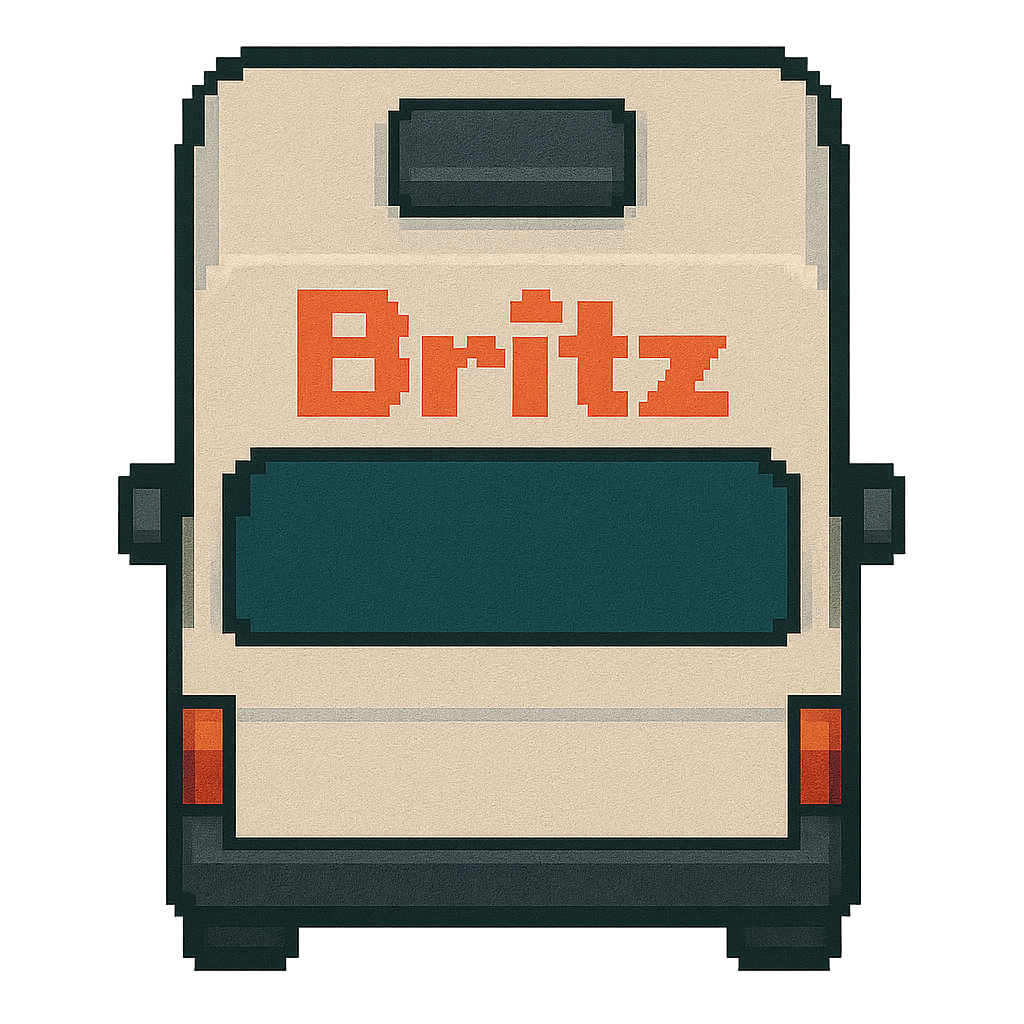
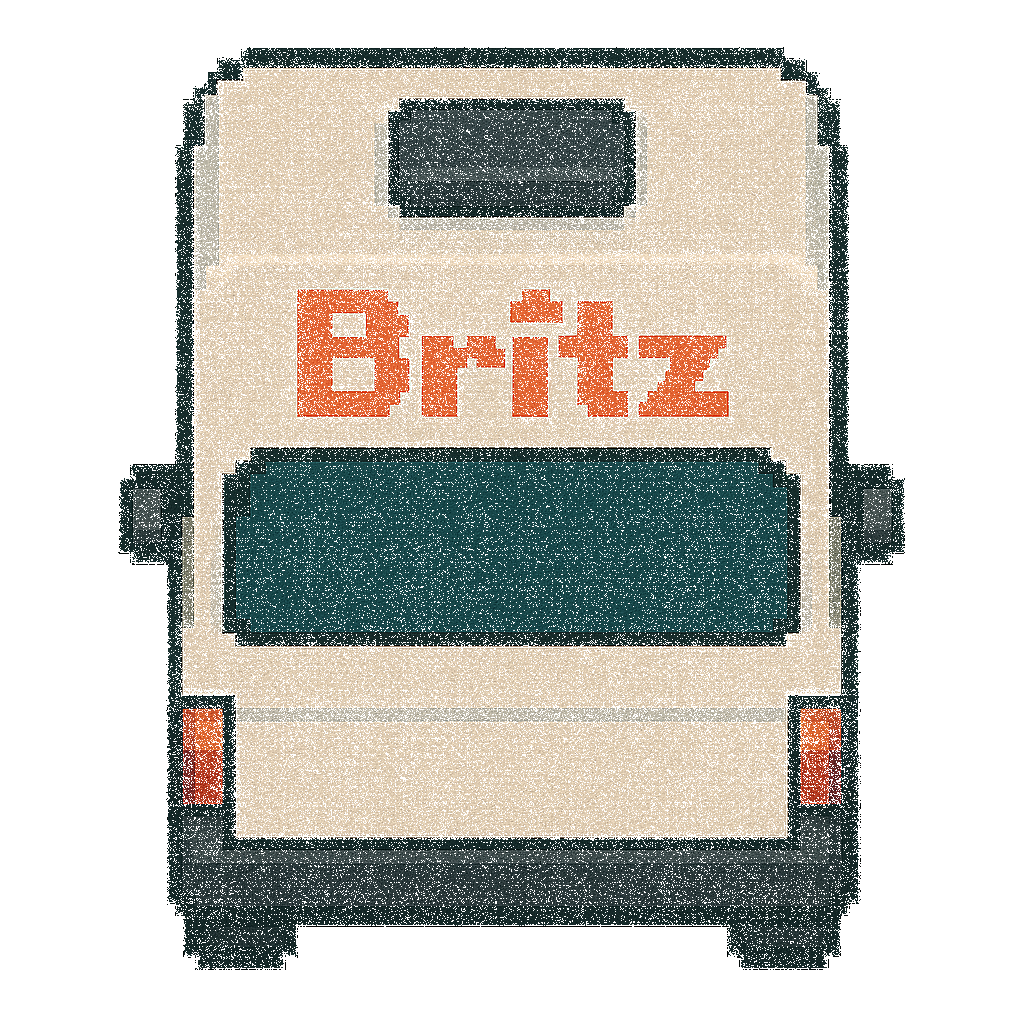
deploy: pschuermann/rage-against-the-campervan-source@be6d057cac972d0399c1415cbd6e50de8bf219dd

diff --git a/sw.js b/sw.js
@@ -1,1 +1,1 @@
-if(!self.define){let s,e={};const a=(a,i)=>(a=new URL(a+".js",i).href,e[a]||new Promise(e=>{if("document"in self){const s=document.createElement("script");s.src=a,s.onload=e,document.head.appendChild(s)}else s=a,importScripts(a),e()}).then(()=>{let s=e[a];if(!s)throw new Error(`Module ${a} didn’t register its module`);return s}));self.define=(i,n)=>{const r=s||("document"in self?document.currentScript.src:"")||location.href;if(e[r])return;let l={};const o=s=>a(s,r),u={module:{uri:r},exports:l,require:o};e[r]=Promise.all(i.map(s=>u[s]||o(s))).then(s=>(n(...s),l))}}define(["./workbox-66610c77"],function(s){"use strict";self.skipWaiting(),s.clientsClaim(),s.precacheAndRoute([{url:"registerSW.js",revision:"912278777f2a7a2f0114ac7812564786"},{url:"index.html",revision:"9363244994974e97c2546dff90067c4d"},{url:"icons/icon-512.png",revision:"2a79dbca5944bd01e90394727737941c"},{url:"icons/icon-192.png",revision:"1e8ec43f7b5e86d504a038321c57fc16"},{url:"assets/index-qOJIzgj_.js",revision:null},{url:"assets/mockups/window-popout-silhouette.svg",revision:null},{url:"assets/mockups/window-popout-silhouette.png",revision:null},{url:"assets/mockups/retro-window-cutaway.svg",revision:null},{url:"assets/mockups/retro-window-cutaway.png",revision:null},{url:"assets/mockups/retro-sticker-bubble.svg",revision:null},{url:"assets/mockups/retro-sticker-bubble.png",revision:null},{url:"assets/mockups/retro-portrait-dialog.svg",revision:null},{url:"assets/mockups/retro-portrait-dialog.png",revision:null},{url:"assets/mockups/retro-polaroid.svg",revision:null},{url:"assets/mockups/retro-polaroid.png",revision:null},{url:"assets/mockups/retro-gb-dialog.svg",revision:null},{url:"assets/mockups/retro-gb-dialog.png",revision:null},{url:"assets/mockups/kid-avatar-bubble.svg",revision:null},{url:"assets/mockups/kid-avatar-bubble.png",revision:null},{url:"assets/mockups/double-voice-stack.svg",revision:null},{url:"assets/mockups/double-voice-stack.png",revision:null},{url:"assets/mockups/crayon-bubble.svg",revision:null},{url:"assets/mockups/crayon-bubble.png",revision:null},{url:"assets/mockups/backseat-tag-pill.svg",revision:null},{url:"assets/mockups/backseat-tag-pill.png",revision:null},{url:"assets/landscape/windtree.png",revision:null},{url:"assets/landscape/willow.png",revision:null},{url:"assets/landscape/tussock2-snow.png",revision:null},{url:"assets/landscape/tussock-snow.png",revision:null},{url:"assets/landscape/snowbank.png",revision:null},{url:"assets/landscape/rock-two.png",revision:null},{url:"assets/landscape/rock-three.png",revision:null},{url:"assets/landscape/rock-snow.png",revision:null},{url:"assets/landscape/rock-one.png",revision:null},{url:"assets/landscape/rock-four.png",revision:null},{url:"assets/landscape/rock-five.png",revision:null},{url:"assets/landscape/poppler.png",revision:null},{url:"assets/landscape/pohutakawa-two.png",revision:null},{url:"assets/landscape/pohutakaoa-one.png",revision:null},{url:"assets/landscape/pine-tree.png",revision:null},{url:"assets/landscape/nikau.png",revision:null},{url:"assets/landscape/manuka.png",revision:null},{url:"assets/landscape/hayball.png",revision:null},{url:"assets/landscape/fern-tree.png",revision:null},{url:"assets/landscape/cow.png",revision:null},{url:"assets/landscape/cabbage-tree.png",revision:null},{url:"assets/landscape/bush-two.png",revision:null},{url:"assets/landscape/bush-three.png",revision:null},{url:"assets/landscape/bush-one.png",revision:null},{url:"assets/landscape/bush-four.png",revision:null},{url:"assets/landscape/boulder-snow.png",revision:null},{url:"assets/images/wanaka-tree.png",revision:null},{url:"assets/images/wanaka-destination.png",revision:null},{url:"assets/images/vehicle-front.png",revision:null},{url:"assets/images/tongariro.png",revision:null},{url:"assets/images/tekapo.png",revision:null},{url:"assets/images/rocket-pickup.png",revision:null},{url:"assets/images/mtCook.png",revision:null},{url:"assets/images/milford.png",revision:null},{url:"assets/images/jucy.png",revision:null},{url:"assets/images/franz-josef.png",revision:null},{url:"assets/images/britz.png",revision:null},{url:"assets/images/biome-westcoast-preview.png",revision:null},{url:"assets/images/biome-farmland-preview.png",revision:null},{url:"assets/images/biome-desert-preview.png",revision:null},{url:"assets/images/biome-crownrange-preview.png",revision:null},{url:"assets/images/beach-bach-pixel.png",revision:null},{url:"assets/images/bach-destination.png",revision:null},{url:"assets/images/apollo.png",revision:null},{url:"assets/images/apollo-alt.png",revision:null},{url:"assets/images/Pixel art Nissan X-Trail 2010 top-down.png",revision:null},{url:"assets/images/Pixel art Nissan X-Trail 2010 top-down-transparent.png",revision:null},{url:"assets/images/DoC-ranger.png",revision:null},{url:"assets/images/DoC-ranger-pixel.png",revision:null},{url:"assets/images/DoC-ranger-pixel-transparent.png",revision:null},{url:"assets/images/vehicle-front/car-front-5.png",revision:null},{url:"assets/images/vehicle-front/car-front-4.png",revision:null},{url:"assets/images/vehicle-front/car-front-3.png",revision:null},{url:"assets/images/vehicle-front/car-front-2.png",revision:null},{url:"assets/images/vehicle-front/car-front-1.png",revision:null},{url:"assets/images/vehicle-front/car-front-0.png",revision:null},{url:"assets/audio/wind-gust.mp3",revision:null},{url:"assets/audio/water-splash.mp3",revision:null},{url:"assets/audio/stoat.mp3",revision:null},{url:"assets/audio/splat.mp3",revision:null},{url:"assets/audio/sheep.mp3",revision:null},{url:"assets/audio/rocket-fire.mp3",revision:null},{url:"assets/audio/rabbit.mp3",revision:null},{url:"assets/audio/possum.mp3",revision:null},{url:"assets/audio/overtake.mp3",revision:null},{url:"assets/audio/moo.mp3",revision:null},{url:"assets/audio/menu-music.mp3",revision:null},{url:"assets/audio/laser-beam2.mp3",revision:null},{url:"assets/audio/laser-beam.wav",revision:null},{url:"assets/audio/game-over.mp3",revision:null},{url:"assets/audio/game-music.mp3",revision:null},{url:"assets/audio/flame.png",revision:null},{url:"assets/audio/explosion.mp3",revision:null},{url:"assets/audio/crash.mp3",revision:null},{url:"assets/audio/collect.mp3",revision:null},{url:"assets/audio/camera.mp3",revision:null},{url:"assets/atlas/game-atlas.png",revision:null},{url:"assets/atlas/game-atlas.json",revision:null},{url:"README.md",revision:"2e8bbac2c2d5c41d0ce5719b4097ffa9"},{url:"icons/icon-192.png",revision:"1e8ec43f7b5e86d504a038321c57fc16"},{url:"icons/icon-512.png",revision:"2a79dbca5944bd01e90394727737941c"},{url:"assets/atlas/game-atlas.json",revision:"f0e6c5b0b57dab3091e4e4e15cb71113"},{url:"assets/atlas/game-atlas.png",revision:"ab75f27323780e4802fcd48d3dae6267"},{url:"assets/audio/AUDIO_FILES_NEEDED.md",revision:"277f91ab9cb6b20a11331261c6313cc9"},{url:"assets/audio/camera.mp3",revision:"ce1581e5ed631d87dab9827b77cdc0ee"},{url:"assets/audio/collect.mp3",revision:"3a02f6cbbeaf186c747792edf21c4ce1"},{url:"assets/audio/crash.mp3",revision:"eaa29e1d2e50f94586cb892c51fe881a"},{url:"assets/audio/explosion.mp3",revision:"b2c059a09d7f769bb49b1a6f43952032"},{url:"assets/audio/flame.png",revision:"20ec1dfa0e9dc497ba1cdcb2a5a7802d"},{url:"assets/audio/game-music.mp3",revision:"640c2c2f60408b80c53bfb8c9ebdd580"},{url:"assets/audio/game-over.mp3",revision:"7363a6a6c4b72207d389738c67290d22"},{url:"assets/audio/laser-beam.wav",revision:"865801c17c2e5d160b9576941b98b20e"},{url:"assets/audio/laser-beam2.mp3",revision:"915ba40a15526ed801cd53dc8461cb5b"},{url:"assets/audio/menu-music.mp3",revision:"de870d6fd017f44cd2da8003b73bcb01"},{url:"assets/audio/moo.mp3",revision:"ead23e07436955d5a8c96d74516cea04"},{url:"assets/audio/overtake.mp3",revision:"91fbf7771d35fd73979d1632304e0f62"},{url:"assets/audio/possum.mp3",revision:"d6cb94c7c05d24748ec3b02d548f6bfc"},{url:"assets/audio/rabbit.mp3",revision:"94ea9a3ca9fcd9ee144bba16371e5daa"},{url:"assets/audio/rocket-fire.mp3",revision:"4e43c51055079f4363e139c3f7df7980"},{url:"assets/audio/sheep.mp3",revision:"61bc7e4ab4a95c232b3aebee2a22a810"},{url:"assets/audio/splat.mp3",revision:"26f0f716cd33f8ca7241f8d07818ca93"},{url:"assets/audio/stoat.mp3",revision:"ecd0acac8db3a539bb084ef62693531f"},{url:"assets/audio/water-splash.mp3",revision:"a6aca4dd957fc392ee5f2167291872dd"},{url:"assets/audio/wind-gust.mp3",revision:"20c7d7dfbf794185e0e283fb8ad5c642"},{url:"assets/landscape/boulder-snow.png",revision:"ee8dc3828617ca37c41af6c051182a9c"},{url:"assets/landscape/bush-four.png",revision:"6c9bf7e1d1a138a59d21d1259fc0fbe2"},{url:"assets/landscape/bush-one.png",revision:"aab5fdb13067e0b8308029a3b6afd11c"},{url:"assets/landscape/bush-three.png",revision:"732af18869a3ecc3a620da0b916fb9a1"},{url:"assets/landscape/bush-two.png",revision:"d239e1f3f75aab21cea27e84502e41c0"},{url:"assets/landscape/cabbage-tree.png",revision:"9ec87a8c7c1b195f1ba8fea521eeaf51"},{url:"assets/landscape/cow.png",revision:"0362a7dd4deb82c5c2ea50e3a183e1a7"},{url:"assets/landscape/fern-tree.png",revision:"8df9230ebfe28d6f252d9b67e1fcfda3"},{url:"assets/landscape/hayball.png",revision:"37d1d3e3db7ac9f839601622dd4097ca"},{url:"assets/landscape/manuka.png",revision:"2222982d0493eb8eec8e5686bb3a6043"},{url:"assets/landscape/nikau.png",revision:"4e4bdb152acf51cb0ac9eaa42256dea0"},{url:"assets/landscape/pine-tree.png",revision:"c7269f9c8f78a7fdb1bbf5c4ef693df4"},{url:"assets/landscape/pohutakaoa-one.png",revision:"0001ed4f8019e0a215586972ac2d3f6e"},{url:"assets/landscape/pohutakawa-two.png",revision:"146c60b9b7b1e050690d19a5291cbe56"},{url:"assets/landscape/poppler.png",revision:"707af5bbe0491ac6c097e2d8c1415fb0"},{url:"assets/landscape/rock-five.png",revision:"b62ffbab260833ce42ba6400d292dfad"},{url:"assets/landscape/rock-four.png",revision:"e760b3f3791b0b75b582e5f2e9cc1069"},{url:"assets/landscape/rock-one.png",revision:"2b72ec3ebf7cf7185145cf993ac852f5"},{url:"assets/landscape/rock-snow.png",revision:"12a59e472a56511e70150d895d652cdd"},{url:"assets/landscape/rock-three.png",revision:"96731af737d63b9575486b4fe31e8528"},{url:"assets/landscape/rock-two.png",revision:"557943881385193d623b65c96cf80ff8"},{url:"assets/landscape/snowbank.png",revision:"c22039829427ec644b87bdb92f190696"},{url:"assets/landscape/tussock-snow.png",revision:"19df8c178274020792bb5af097ad39fa"},{url:"assets/landscape/tussock2-snow.png",revision:"6181910b5c70f0f22345009b2aacf055"},{url:"assets/landscape/willow.png",revision:"b9261ccbb6c1fef1f620fe469fd65eac"},{url:"assets/landscape/windtree.png",revision:"db132a5fae146ef349598c94ed3603a0"},{url:"assets/mockups/backseat-tag-pill.png",revision:"3cd981ea3c01d38054f7107a8d13d720"},{url:"assets/mockups/backseat-tag-pill.svg",revision:"53a62bbe0329375cb0b9c4311238b6ab"},{url:"assets/mockups/crayon-bubble.png",revision:"ef06ab2dc12659bd335617d10a325b4e"},{url:"assets/mockups/crayon-bubble.svg",revision:"36548a86927c083c730bee385279057b"},{url:"assets/mockups/double-voice-stack.png",revision:"388e6ce5b31d3a921051d61a6c0f5381"},{url:"assets/mockups/double-voice-stack.svg",revision:"60c002b8615d9db56d834d4229d96787"},{url:"assets/mockups/kid-avatar-bubble.png",revision:"8888b674fb8a2efaea7ec17cf7c28187"},{url:"assets/mockups/kid-avatar-bubble.svg",revision:"4fa52a872a510b9bb3a6d40b2ad8107b"},{url:"assets/mockups/retro-gb-dialog.png",revision:"8bdb60bd5d88e21b24e7007e70f581b0"},{url:"assets/mockups/retro-gb-dialog.svg",revision:"13461631b23c4aec6e6b6401636d7103"},{url:"assets/mockups/retro-polaroid.png",revision:"8a7eee7f490139c5c32e565d94640492"},{url:"assets/mockups/retro-polaroid.svg",revision:"e5612534361ae95ccfbb334f491ea699"},{url:"assets/mockups/retro-portrait-dialog.png",revision:"bbdbe9e2b3ba6be0d5ce8a2bb1911697"},{url:"assets/mockups/retro-portrait-dialog.svg",revision:"5109187f521c2790e51e8e2381abb405"},{url:"assets/mockups/retro-sticker-bubble.png",revision:"a8cdea0ab5a835ad98ede831b5f7d955"},{url:"assets/mockups/retro-sticker-bubble.svg",revision:"9e9b88f336b21c4827bc3c675906f2ec"},{url:"assets/mockups/retro-window-cutaway.png",revision:"33421387bc4fcd17d09ef99438f63ff5"},{url:"assets/mockups/retro-window-cutaway.svg",revision:"97ca3fa55d391f26ad5399c550119010"},{url:"assets/mockups/window-popout-silhouette.png",revision:"19e1ce1af8c91c000401c92c7ad09081"},{url:"assets/mockups/window-popout-silhouette.svg",revision:"11e4abeb40cf0e819e4a5bcafabb5a34"},{url:"assets/images/DoC-ranger-pixel-transparent.png",revision:"e1a2271ade3a7343373e69af2f686767"},{url:"assets/images/DoC-ranger-pixel.png",revision:"84d0bcc881c43321abe592f7723cfd86"},{url:"assets/images/DoC-ranger.png",revision:"18eeed9f993a3f3cacc9e63f9a78f0f8"},{url:"assets/images/Pixel art Nissan X-Trail 2010 top-down-transparent.png",revision:"f157c336f88f263a8933a63b5eb57311"},{url:"assets/images/Pixel art Nissan X-Trail 2010 top-down.png",revision:"c28d532b060d4f4b34c8d69fb611c7cf"},{url:"assets/images/apollo-alt.png",revision:"5df1c4e11ef359e4a4a07679af9bd5b4"},{url:"assets/images/apollo.png",revision:"efea3cc444ecc0f907f69683ac26ab01"},{url:"assets/images/bach-destination.png",revision:"2ffddf0ef3da6b0e880ad2feb44e7b03"},{url:"assets/images/beach-bach-pixel.png",revision:"3a16b1dc49ff1e4b7c53f3c710705b77"},{url:"assets/images/biome-crownrange-preview.png",revision:"1557a862f0a985284d04fc1b4cd76637"},{url:"assets/images/biome-desert-preview.png",revision:"e21d08cbe478d96cb3b05f0370143163"},{url:"assets/images/biome-farmland-preview.png",revision:"7b6681618982095149bc7dcad83c871d"},{url:"assets/images/biome-westcoast-preview.png",revision:"1170e50534a758897484a3e59d0ac706"},{url:"assets/images/britz.png",revision:"c56edd10f717f9b8f01331716fed82c3"},{url:"assets/images/franz-josef.png",revision:"78e21d2f1973cc9fcc458963c374784a"},{url:"assets/images/jucy.png",revision:"f37ae4a0994f20ae94ec3d2b09d0cacf"},{url:"assets/images/milford.png",revision:"cd4df769a2dea05739ff5c5eea4d33b5"},{url:"assets/images/mtCook.png",revision:"7e41a9171672aeec55c926d380c5c364"},{url:"assets/images/rocket-pickup.png",revision:"db28fb374082ee4d8a912e55410d5e97"},{url:"assets/images/tekapo.png",revision:"396f195a2f0867b4152ff44898daa97a"},{url:"assets/images/tongariro.png",revision:"0f0574690a7dc79461b90a18c0054a30"},{url:"assets/images/vehicle-front.png",revision:"fdea5153c8fa0450f1277d97ca3379ae"},{url:"assets/images/wanaka-destination.png",revision:"da3c2519cb62887561da38b90a415b66"},{url:"assets/images/wanaka-tree.png",revision:"c5d9b08ee9437dc31c4861be3bacc331"},{url:"assets/images/vehicle-front/car-front-0.png",revision:"d00cbfc32434233e4c67da45e65c91c4"},{url:"assets/images/vehicle-front/car-front-1.png",revision:"6cd3d6c655dd134dc6d4eeb0ba8b7025"},{url:"assets/images/vehicle-front/car-front-2.png",revision:"e27089da4e1bbaa68b1829a8c44567e1"},{url:"assets/images/vehicle-front/car-front-3.png",revision:"c9c5124a7f2dce9abf83475972ea8112"},{url:"assets/images/vehicle-front/car-front-4.png",revision:"ac6ed97ebd48bd91f62884b0cc00715a"},{url:"assets/images/vehicle-front/car-front-5.png",revision:"6d127217ece57e2be5c2d3e76bc825bc"},{url:"manifest.webmanifest",revision:"60c7e6b8f9d2b58884e0e3174b69c13b"}],{}),s.cleanupOutdatedCaches(),s.registerRoute(new s.NavigationRoute(s.createHandlerBoundToURL("index.html"))),s.registerRoute(/\.(?:png|jpg|jpeg|svg)$/,new s.CacheFirst({cacheName:"images",plugins:[new s.ExpirationPlugin({maxEntries:100,maxAgeSeconds:2592e3})]}),"GET"),s.registerRoute(/\.(?:mp3|wav)$/,new s.CacheFirst({cacheName:"audio",plugins:[new s.ExpirationPlugin({maxEntries:50,maxAgeSeconds:2592e3})]}),"GET"),s.registerRoute(/\.(?:woff|woff2)$/,new s.CacheFirst({cacheName:"fonts",plugins:[new s.ExpirationPlugin({maxEntries:10,maxAgeSeconds:31536e3})]}),"GET")});
+if(!self.define){let s,e={};const a=(a,i)=>(a=new URL(a+".js",i).href,e[a]||new Promise(e=>{if("document"in self){const s=document.createElement("script");s.src=a,s.onload=e,document.head.appendChild(s)}else s=a,importScripts(a),e()}).then(()=>{let s=e[a];if(!s)throw new Error(`Module ${a} didn’t register its module`);return s}));self.define=(i,n)=>{const r=s||("document"in self?document.currentScript.src:"")||location.href;if(e[r])return;let l={};const o=s=>a(s,r),u={module:{uri:r},exports:l,require:o};e[r]=Promise.all(i.map(s=>u[s]||o(s))).then(s=>(n(...s),l))}}define(["./workbox-66610c77"],function(s){"use strict";self.skipWaiting(),s.clientsClaim(),s.precacheAndRoute([{url:"registerSW.js",revision:"912278777f2a7a2f0114ac7812564786"},{url:"index.html",revision:"9363244994974e97c2546dff90067c4d"},{url:"icons/icon-512.png",revision:"2a79dbca5944bd01e90394727737941c"},{url:"icons/icon-192.png",revision:"1e8ec43f7b5e86d504a038321c57fc16"},{url:"assets/index-qOJIzgj_.js",revision:null},{url:"assets/mockups/window-popout-silhouette.svg",revision:null},{url:"assets/mockups/window-popout-silhouette.png",revision:null},{url:"assets/mockups/retro-window-cutaway.svg",revision:null},{url:"assets/mockups/retro-window-cutaway.png",revision:null},{url:"assets/mockups/retro-sticker-bubble.svg",revision:null},{url:"assets/mockups/retro-sticker-bubble.png",revision:null},{url:"assets/mockups/retro-portrait-dialog.svg",revision:null},{url:"assets/mockups/retro-portrait-dialog.png",revision:null},{url:"assets/mockups/retro-polaroid.svg",revision:null},{url:"assets/mockups/retro-polaroid.png",revision:null},{url:"assets/mockups/retro-gb-dialog.svg",revision:null},{url:"assets/mockups/retro-gb-dialog.png",revision:null},{url:"assets/mockups/kid-avatar-bubble.svg",revision:null},{url:"assets/mockups/kid-avatar-bubble.png",revision:null},{url:"assets/mockups/double-voice-stack.svg",revision:null},{url:"assets/mockups/double-voice-stack.png",revision:null},{url:"assets/mockups/crayon-bubble.svg",revision:null},{url:"assets/mockups/crayon-bubble.png",revision:null},{url:"assets/mockups/backseat-tag-pill.svg",revision:null},{url:"assets/mockups/backseat-tag-pill.png",revision:null},{url:"assets/landscape/windtree.png",revision:null},{url:"assets/landscape/willow.png",revision:null},{url:"assets/landscape/tussock2-snow.png",revision:null},{url:"assets/landscape/tussock-snow.png",revision:null},{url:"assets/landscape/snowbank.png",revision:null},{url:"assets/landscape/rock-two.png",revision:null},{url:"assets/landscape/rock-three.png",revision:null},{url:"assets/landscape/rock-snow.png",revision:null},{url:"assets/landscape/rock-one.png",revision:null},{url:"assets/landscape/rock-four.png",revision:null},{url:"assets/landscape/rock-five.png",revision:null},{url:"assets/landscape/poppler.png",revision:null},{url:"assets/landscape/pohutakawa-two.png",revision:null},{url:"assets/landscape/pohutakaoa-one.png",revision:null},{url:"assets/landscape/pine-tree.png",revision:null},{url:"assets/landscape/nikau.png",revision:null},{url:"assets/landscape/manuka.png",revision:null},{url:"assets/landscape/hayball.png",revision:null},{url:"assets/landscape/fern-tree.png",revision:null},{url:"assets/landscape/cow.png",revision:null},{url:"assets/landscape/cabbage-tree.png",revision:null},{url:"assets/landscape/bush-two.png",revision:null},{url:"assets/landscape/bush-three.png",revision:null},{url:"assets/landscape/bush-one.png",revision:null},{url:"assets/landscape/bush-four.png",revision:null},{url:"assets/landscape/boulder-snow.png",revision:null},{url:"assets/images/wanaka-tree.png",revision:null},{url:"assets/images/wanaka-destination.png",revision:null},{url:"assets/images/vehicle-front.png",revision:null},{url:"assets/images/tongariro.png",revision:null},{url:"assets/images/tekapo.png",revision:null},{url:"assets/images/rocket-pickup.png",revision:null},{url:"assets/images/mtCook.png",revision:null},{url:"assets/images/milford.png",revision:null},{url:"assets/images/jucy.png",revision:null},{url:"assets/images/franz-josef.png",revision:null},{url:"assets/images/britz.png",revision:null},{url:"assets/images/biome-westcoast-preview.png",revision:null},{url:"assets/images/biome-farmland-preview.png",revision:null},{url:"assets/images/biome-desert-preview.png",revision:null},{url:"assets/images/biome-crownrange-preview.png",revision:null},{url:"assets/images/beach-bach-pixel.png",revision:null},{url:"assets/images/bach-destination.png",revision:null},{url:"assets/images/apollo.png",revision:null},{url:"assets/images/apollo-alt.png",revision:null},{url:"assets/images/Pixel art Nissan X-Trail 2010 top-down.png",revision:null},{url:"assets/images/Pixel art Nissan X-Trail 2010 top-down-transparent.png",revision:null},{url:"assets/images/DoC-ranger.png",revision:null},{url:"assets/images/DoC-ranger-pixel.png",revision:null},{url:"assets/images/DoC-ranger-pixel-transparent.png",revision:null},{url:"assets/images/vehicle-front/car-front-5.png",revision:null},{url:"assets/images/vehicle-front/car-front-4.png",revision:null},{url:"assets/images/vehicle-front/car-front-3.png",revision:null},{url:"assets/images/vehicle-front/car-front-2.png",revision:null},{url:"assets/images/vehicle-front/car-front-1.png",revision:null},{url:"assets/images/vehicle-front/car-front-0.png",revision:null},{url:"assets/audio/wind-gust.mp3",revision:null},{url:"assets/audio/water-splash.mp3",revision:null},{url:"assets/audio/stoat.mp3",revision:null},{url:"assets/audio/splat.mp3",revision:null},{url:"assets/audio/sheep.mp3",revision:null},{url:"assets/audio/rocket-fire.mp3",revision:null},{url:"assets/audio/rabbit.mp3",revision:null},{url:"assets/audio/possum.mp3",revision:null},{url:"assets/audio/overtake.mp3",revision:null},{url:"assets/audio/moo.mp3",revision:null},{url:"assets/audio/menu-music.mp3",revision:null},{url:"assets/audio/laser-beam2.mp3",revision:null},{url:"assets/audio/laser-beam.wav",revision:null},{url:"assets/audio/game-over.mp3",revision:null},{url:"assets/audio/game-music.mp3",revision:null},{url:"assets/audio/flame.png",revision:null},{url:"assets/audio/explosion.mp3",revision:null},{url:"assets/audio/crash.mp3",revision:null},{url:"assets/audio/collect.mp3",revision:null},{url:"assets/audio/camera.mp3",revision:null},{url:"assets/atlas/game-atlas.png",revision:null},{url:"assets/atlas/game-atlas.json",revision:null},{url:"README.md",revision:"2e8bbac2c2d5c41d0ce5719b4097ffa9"},{url:"icons/icon-192.png",revision:"1e8ec43f7b5e86d504a038321c57fc16"},{url:"icons/icon-512.png",revision:"2a79dbca5944bd01e90394727737941c"},{url:"assets/atlas/game-atlas.json",revision:"f0e6c5b0b57dab3091e4e4e15cb71113"},{url:"assets/atlas/game-atlas.png",revision:"ab75f27323780e4802fcd48d3dae6267"},{url:"assets/audio/AUDIO_FILES_NEEDED.md",revision:"277f91ab9cb6b20a11331261c6313cc9"},{url:"assets/audio/camera.mp3",revision:"ce1581e5ed631d87dab9827b77cdc0ee"},{url:"assets/audio/collect.mp3",revision:"3a02f6cbbeaf186c747792edf21c4ce1"},{url:"assets/audio/crash.mp3",revision:"eaa29e1d2e50f94586cb892c51fe881a"},{url:"assets/audio/explosion.mp3",revision:"b2c059a09d7f769bb49b1a6f43952032"},{url:"assets/audio/flame.png",revision:"20ec1dfa0e9dc497ba1cdcb2a5a7802d"},{url:"assets/audio/game-music.mp3",revision:"640c2c2f60408b80c53bfb8c9ebdd580"},{url:"assets/audio/game-over.mp3",revision:"7363a6a6c4b72207d389738c67290d22"},{url:"assets/audio/laser-beam.wav",revision:"865801c17c2e5d160b9576941b98b20e"},{url:"assets/audio/laser-beam2.mp3",revision:"915ba40a15526ed801cd53dc8461cb5b"},{url:"assets/audio/menu-music.mp3",revision:"de870d6fd017f44cd2da8003b73bcb01"},{url:"assets/audio/moo.mp3",revision:"ead23e07436955d5a8c96d74516cea04"},{url:"assets/audio/overtake.mp3",revision:"91fbf7771d35fd73979d1632304e0f62"},{url:"assets/audio/possum.mp3",revision:"d6cb94c7c05d24748ec3b02d548f6bfc"},{url:"assets/audio/rabbit.mp3",revision:"94ea9a3ca9fcd9ee144bba16371e5daa"},{url:"assets/audio/rocket-fire.mp3",revision:"4e43c51055079f4363e139c3f7df7980"},{url:"assets/audio/sheep.mp3",revision:"61bc7e4ab4a95c232b3aebee2a22a810"},{url:"assets/audio/splat.mp3",revision:"26f0f716cd33f8ca7241f8d07818ca93"},{url:"assets/audio/stoat.mp3",revision:"ecd0acac8db3a539bb084ef62693531f"},{url:"assets/audio/water-splash.mp3",revision:"a6aca4dd957fc392ee5f2167291872dd"},{url:"assets/audio/wind-gust.mp3",revision:"20c7d7dfbf794185e0e283fb8ad5c642"},{url:"assets/images/DoC-ranger-pixel-transparent.png",revision:"e1a2271ade3a7343373e69af2f686767"},{url:"assets/images/DoC-ranger-pixel.png",revision:"84d0bcc881c43321abe592f7723cfd86"},{url:"assets/images/DoC-ranger.png",revision:"18eeed9f993a3f3cacc9e63f9a78f0f8"},{url:"assets/images/Pixel art Nissan X-Trail 2010 top-down-transparent.png",revision:"f157c336f88f263a8933a63b5eb57311"},{url:"assets/images/Pixel art Nissan X-Trail 2010 top-down.png",revision:"c28d532b060d4f4b34c8d69fb611c7cf"},{url:"assets/images/apollo-alt.png",revision:"5df1c4e11ef359e4a4a07679af9bd5b4"},{url:"assets/images/apollo.png",revision:"efea3cc444ecc0f907f69683ac26ab01"},{url:"assets/images/bach-destination.png",revision:"2ffddf0ef3da6b0e880ad2feb44e7b03"},{url:"assets/images/beach-bach-pixel.png",revision:"3a16b1dc49ff1e4b7c53f3c710705b77"},{url:"assets/images/biome-crownrange-preview.png",revision:"1557a862f0a985284d04fc1b4cd76637"},{url:"assets/images/biome-desert-preview.png",revision:"e21d08cbe478d96cb3b05f0370143163"},{url:"assets/images/biome-farmland-preview.png",revision:"7b6681618982095149bc7dcad83c871d"},{url:"assets/images/biome-westcoast-preview.png",revision:"1170e50534a758897484a3e59d0ac706"},{url:"assets/images/britz.png",revision:"832974e91710dea0acf1e59bf2bf4b09"},{url:"assets/images/franz-josef.png",revision:"78e21d2f1973cc9fcc458963c374784a"},{url:"assets/images/jucy.png",revision:"44208ad70d9aa65c861b3e4b54847995"},{url:"assets/images/milford.png",revision:"cd4df769a2dea05739ff5c5eea4d33b5"},{url:"assets/images/mtCook.png",revision:"7e41a9171672aeec55c926d380c5c364"},{url:"assets/images/rocket-pickup.png",revision:"db28fb374082ee4d8a912e55410d5e97"},{url:"assets/images/tekapo.png",revision:"396f195a2f0867b4152ff44898daa97a"},{url:"assets/images/tongariro.png",revision:"0f0574690a7dc79461b90a18c0054a30"},{url:"assets/images/vehicle-front.png",revision:"fdea5153c8fa0450f1277d97ca3379ae"},{url:"assets/images/wanaka-destination.png",revision:"da3c2519cb62887561da38b90a415b66"},{url:"assets/images/wanaka-tree.png",revision:"c5d9b08ee9437dc31c4861be3bacc331"},{url:"assets/landscape/boulder-snow.png",revision:"ee8dc3828617ca37c41af6c051182a9c"},{url:"assets/landscape/bush-four.png",revision:"6c9bf7e1d1a138a59d21d1259fc0fbe2"},{url:"assets/landscape/bush-one.png",revision:"aab5fdb13067e0b8308029a3b6afd11c"},{url:"assets/landscape/bush-three.png",revision:"732af18869a3ecc3a620da0b916fb9a1"},{url:"assets/landscape/bush-two.png",revision:"d239e1f3f75aab21cea27e84502e41c0"},{url:"assets/landscape/cabbage-tree.png",revision:"9ec87a8c7c1b195f1ba8fea521eeaf51"},{url:"assets/landscape/cow.png",revision:"0362a7dd4deb82c5c2ea50e3a183e1a7"},{url:"assets/landscape/fern-tree.png",revision:"8df9230ebfe28d6f252d9b67e1fcfda3"},{url:"assets/landscape/hayball.png",revision:"37d1d3e3db7ac9f839601622dd4097ca"},{url:"assets/landscape/manuka.png",revision:"2222982d0493eb8eec8e5686bb3a6043"},{url:"assets/landscape/nikau.png",revision:"4e4bdb152acf51cb0ac9eaa42256dea0"},{url:"assets/landscape/pine-tree.png",revision:"c7269f9c8f78a7fdb1bbf5c4ef693df4"},{url:"assets/landscape/pohutakaoa-one.png",revision:"0001ed4f8019e0a215586972ac2d3f6e"},{url:"assets/landscape/pohutakawa-two.png",revision:"146c60b9b7b1e050690d19a5291cbe56"},{url:"assets/landscape/poppler.png",revision:"707af5bbe0491ac6c097e2d8c1415fb0"},{url:"assets/landscape/rock-five.png",revision:"b62ffbab260833ce42ba6400d292dfad"},{url:"assets/landscape/rock-four.png",revision:"e760b3f3791b0b75b582e5f2e9cc1069"},{url:"assets/landscape/rock-one.png",revision:"2b72ec3ebf7cf7185145cf993ac852f5"},{url:"assets/landscape/rock-snow.png",revision:"12a59e472a56511e70150d895d652cdd"},{url:"assets/landscape/rock-three.png",revision:"96731af737d63b9575486b4fe31e8528"},{url:"assets/landscape/rock-two.png",revision:"557943881385193d623b65c96cf80ff8"},{url:"assets/landscape/snowbank.png",revision:"c22039829427ec644b87bdb92f190696"},{url:"assets/landscape/tussock-snow.png",revision:"19df8c178274020792bb5af097ad39fa"},{url:"assets/landscape/tussock2-snow.png",revision:"6181910b5c70f0f22345009b2aacf055"},{url:"assets/landscape/willow.png",revision:"b9261ccbb6c1fef1f620fe469fd65eac"},{url:"assets/landscape/windtree.png",revision:"db132a5fae146ef349598c94ed3603a0"},{url:"assets/mockups/backseat-tag-pill.png",revision:"3cd981ea3c01d38054f7107a8d13d720"},{url:"assets/mockups/backseat-tag-pill.svg",revision:"53a62bbe0329375cb0b9c4311238b6ab"},{url:"assets/mockups/crayon-bubble.png",revision:"ef06ab2dc12659bd335617d10a325b4e"},{url:"assets/mockups/crayon-bubble.svg",revision:"36548a86927c083c730bee385279057b"},{url:"assets/mockups/double-voice-stack.png",revision:"388e6ce5b31d3a921051d61a6c0f5381"},{url:"assets/mockups/double-voice-stack.svg",revision:"60c002b8615d9db56d834d4229d96787"},{url:"assets/mockups/kid-avatar-bubble.png",revision:"8888b674fb8a2efaea7ec17cf7c28187"},{url:"assets/mockups/kid-avatar-bubble.svg",revision:"4fa52a872a510b9bb3a6d40b2ad8107b"},{url:"assets/mockups/retro-gb-dialog.png",revision:"8bdb60bd5d88e21b24e7007e70f581b0"},{url:"assets/mockups/retro-gb-dialog.svg",revision:"13461631b23c4aec6e6b6401636d7103"},{url:"assets/mockups/retro-polaroid.png",revision:"8a7eee7f490139c5c32e565d94640492"},{url:"assets/mockups/retro-polaroid.svg",revision:"e5612534361ae95ccfbb334f491ea699"},{url:"assets/mockups/retro-portrait-dialog.png",revision:"bbdbe9e2b3ba6be0d5ce8a2bb1911697"},{url:"assets/mockups/retro-portrait-dialog.svg",revision:"5109187f521c2790e51e8e2381abb405"},{url:"assets/mockups/retro-sticker-bubble.png",revision:"a8cdea0ab5a835ad98ede831b5f7d955"},{url:"assets/mockups/retro-sticker-bubble.svg",revision:"9e9b88f336b21c4827bc3c675906f2ec"},{url:"assets/mockups/retro-window-cutaway.png",revision:"33421387bc4fcd17d09ef99438f63ff5"},{url:"assets/mockups/retro-window-cutaway.svg",revision:"97ca3fa55d391f26ad5399c550119010"},{url:"assets/mockups/window-popout-silhouette.png",revision:"19e1ce1af8c91c000401c92c7ad09081"},{url:"assets/mockups/window-popout-silhouette.svg",revision:"11e4abeb40cf0e819e4a5bcafabb5a34"},{url:"assets/images/vehicle-front/car-front-0.png",revision:"d00cbfc32434233e4c67da45e65c91c4"},{url:"assets/images/vehicle-front/car-front-1.png",revision:"6cd3d6c655dd134dc6d4eeb0ba8b7025"},{url:"assets/images/vehicle-front/car-front-2.png",revision:"e27089da4e1bbaa68b1829a8c44567e1"},{url:"assets/images/vehicle-front/car-front-3.png",revision:"c9c5124a7f2dce9abf83475972ea8112"},{url:"assets/images/vehicle-front/car-front-4.png",revision:"ac6ed97ebd48bd91f62884b0cc00715a"},{url:"assets/images/vehicle-front/car-front-5.png",revision:"6d127217ece57e2be5c2d3e76bc825bc"},{url:"manifest.webmanifest",revision:"60c7e6b8f9d2b58884e0e3174b69c13b"}],{}),s.cleanupOutdatedCaches(),s.registerRoute(new s.NavigationRoute(s.createHandlerBoundToURL("index.html"))),s.registerRoute(/\.(?:png|jpg|jpeg|svg)$/,new s.CacheFirst({cacheName:"images",plugins:[new s.ExpirationPlugin({maxEntries:100,maxAgeSeconds:2592e3})]}),"GET"),s.registerRoute(/\.(?:mp3|wav)$/,new s.CacheFirst({cacheName:"audio",plugins:[new s.ExpirationPlugin({maxEntries:50,maxAgeSeconds:2592e3})]}),"GET"),s.registerRoute(/\.(?:woff|woff2)$/,new s.CacheFirst({cacheName:"fonts",plugins:[new s.ExpirationPlugin({maxEntries:10,maxAgeSeconds:31536e3})]}),"GET")});
